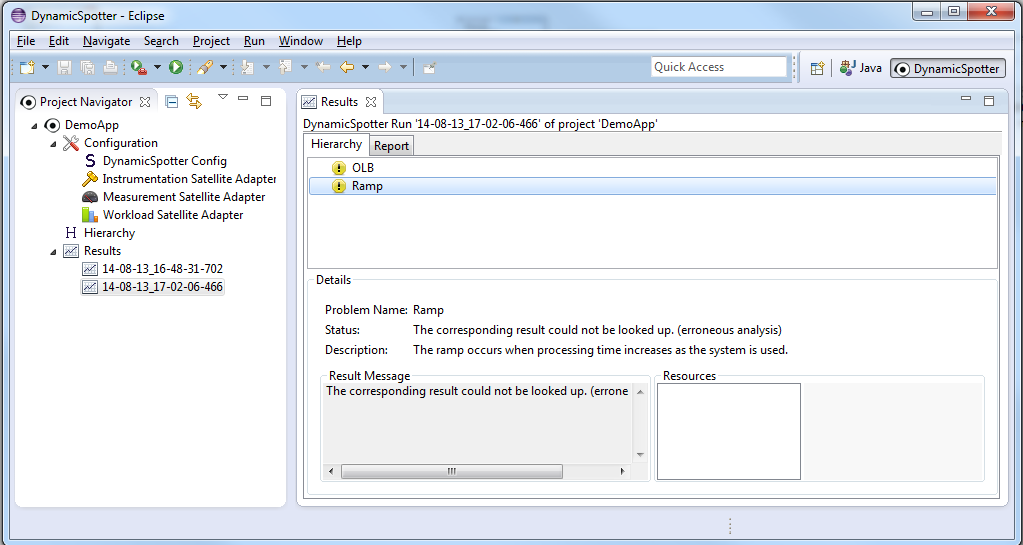
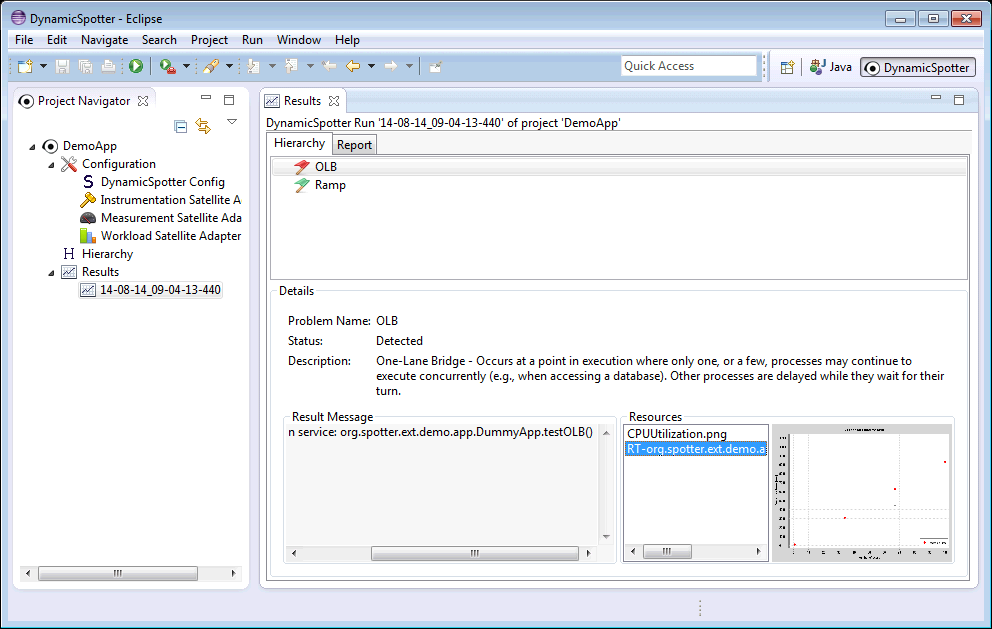
Wrote hierarchy editing section.

Changed region(s): [[0.0, 0.0, 1.0, 1.0]]

diff --git a/doc.tex b/doc.tex
@@ -130,9 +130,15 @@ SAP AG\\
 % 
 % \maketitle
 \tableofcontents
+
+%%%%%%%%%%%%%%%%%%%%%%%%%%%%%%%%%%%%%%%
+%%%%%%%%%%%%%%%%%%%%%%%%%%%%%%%%%%%%%%%
+%%%%%% 	
+%%%%%% 			APPROACH
+%%%%%% 	
+%%%%%%%%%%%%%%%%%%%%%%%%%%%%%%%%%%%%%%%
+%%%%%%%%%%%%%%%%%%%%%%%%%%%%%%%%%%%%%%%
 \newpage
-
-
 \section{The Approach behind \DS}
 \label{sec:approach}
 \DS is a framework for automatic detection of performance problems in Java-based enterprise software systems. Therefore,
@@ -230,15 +236,16 @@ problem exists in the SUT and, where appropriate, points to the root cause and l
 problem.
 
 
-
+%%%%%%%%%%%%%%%%%%%%%%%%%%%%%%%%%%%%%%%
+%%%%%%%%%%%%%%%%%%%%%%%%%%%%%%%%%%%%%%%
+%%%%%% 	
+%%%%%% 		   ARCHITECTURE
+%%%%%% 	
+%%%%%%%%%%%%%%%%%%%%%%%%%%%%%%%%%%%%%%%
+%%%%%%%%%%%%%%%%%%%%%%%%%%%%%%%%%%%%%%%
+\newpage
 \section{Architecture of \DS}
 \label{sec:architecture}
-
-\begin{figure}[p]
-\includegraphics[width=\textwidth]{figures/architecture.pdf}
-\caption{\DS architecture}
-\label{fig:architecture}
-\end{figure}
 As described in Section~\ref{sec:approach}, \DS is a framework for automatic detection of performance problems. The
 architecture of \DS is depicted in Figure~\ref{fig:architecture}. The main component of \DS (\texttt{\DS Core}) realizes
 the logic for automating performance tests and data analysis. In particular, \texttt{\DS Core} is responsible for
@@ -290,7 +297,22 @@ extensions and establishes connections to the corresponding external instrumenta
 tools. \DS is then able to automatically run performance tests and analyze measurement data as defined in the heuristics
 of the individual performance problems from the performance problem hierarchy. As a result, \DS provides a report to the
 user stating which performance problems have been detected.  
+\begin{figure}[h]
+\centering
+\includegraphics[width=0.87\textwidth]{figures/architecture.pdf}
+\caption{\DS architecture}
+\label{fig:architecture}
+\end{figure}
 
+
+%%%%%%%%%%%%%%%%%%%%%%%%%%%%%%%%%%%%%%%
+%%%%%%%%%%%%%%%%%%%%%%%%%%%%%%%%%%%%%%%
+%%%%%% 	
+%%%%%% 		 GETTING STARTED
+%%%%%% 	
+%%%%%%%%%%%%%%%%%%%%%%%%%%%%%%%%%%%%%%%
+%%%%%%%%%%%%%%%%%%%%%%%%%%%%%%%%%%%%%%%
+\newpage
 \section{DynamicSpotter - Getting Started}
 In this section, we demonstrate the usage of \DS on a very simple scenario. Some of the \DS plugins we use in this
 scenario are just simple examples (e.g. the plugin for load generation) to demonstrate the \DS framework. In real
@@ -476,17 +498,7 @@ In the project wizard, a name for the project and the configuration of the conne
 \caption{Creating \DS Project}
 \label{fig:createProject}
 \end{figure}
-The newly created project should now occur in the Project Navigator with a project structure as shown in
-Figure~\ref{fig:projectStructure}. 
-A \DS Project has two main nodes: a \texttt{Configuration} part and a \texttt{Results} part. In the
-\texttt{Configuration} part, one has to specify the scenario-specific properties as well as domain specific
-configuration parameters for \DS. The \texttt{\DS Config} contains global configurations and domain specific information
-required for the execution of \DS on the specific system under test. The \texttt{Satellite Adapter} configurations allow
-to specify the measurement environment of the scenario including configuration of instrumentation, measurement and
-workload adapters.
-
-The \texttt{Results} part provides a history of results for \DS diagnosis runs
-executed for that \DS Project.
+The new project should appear in the Project Navigator (cf. Figure~\ref{fig:projectStructure}). 
 
 \begin{figure}[h]
 \centering
@@ -494,6 +506,17 @@ executed for that \DS Project.
 \caption{Project Structure}
 \label{fig:projectStructure}
 \end{figure}
+
+A \DS Project has two main nodes: a \texttt{Configuration} part and a \texttt{Results} part. In the
+\texttt{Configuration} part, one has to specify the scenario-specific properties as well as domain specific
+configuration parameters for \DS. The \texttt{\DS Config} contains global configurations and domain specific information
+required for the execution of \DS on the specific system under test. The \texttt{Satellite Adapter} configurations allow
+to specify the measurement environment of the scenario including configuration of instrumentation, measurement and
+workload adapters.
+The \texttt{Results} part provides a history of results for \DS diagnosis runs
+executed for that \DS Project.
+
+
 
 In the following, we explain how to configure \DS for our demo scenario. First, we edit the \texttt{\DS Config} by
 opening (double-click on \texttt{\DS Config} in the Project Navigator) the \texttt{\DS Config Editor} (cf.
@@ -534,6 +557,12 @@ Satellite Adapters}. There, we add an instrumentation adapter of type
 \caption{\DS Instrumentation Satellite Adapter Editor}
 \label{fig:instrumentationEditor}
 \end{figure}
+\begin{figure}[h]
+\centering
+\includegraphics[width=0.8\textwidth]{figures/demo/0012-workloadConfig.png}
+\caption{Configuration of the Workload Adapter}
+\label{fig:workloadConfig}
+\end{figure}
 We then see a instrumentation adapter entry in the list with a red cross (cf. Figure~\ref{fig:instrumentationEditor}).
 The red cross means that no connection to the satellite could be established. As mentioned in Section~\ref{sec:demoApp}, the instrumentation agent starts per default
 its REST service on port \texttt{8888}. Thus, we need to change the port in the properties view of the
@@ -544,7 +573,7 @@ Analogously to the configuration of the instrumentation adapter we have to creat
 \texttt{measurement.satellite.adapter.instrumentation} in order to connect to the measurement interface of the
 instrumentation agent. 
 
-Finally, we have to configure a workload adapter. Therefore, we open the \texttt{Workload Satellite Adapter Editor} and
+Next, we have to configure a workload adapter. Therefore, we open the \texttt{Workload Satellite Adapter Editor} and
 add a satellite of the type \texttt{workload.satellite.adapter.customized} (cf. Figure~\ref{fig:workloadConfig}). This
 type of workload adapter is a simple load generator which runs within the \DS process. Therefore, this adapter does not have properties like host or port and
 is per default connected to \DS (green check mark). The customized workload adapter uses a Java class extending the
@@ -553,12 +582,28 @@ specify the full qualified class name of that load script class (\texttt{workloa
 path (\texttt{workload.simple.userScriptPath}) to the directory containing the Java package structure (the
 \texttt{loadScript} directory of the all-in-one-drop archive).
 
-\begin{figure}[h]
+Finally, we have to tell \DS which performance anti-patterns should be analyzed in the target application. Configuring
+the performance problem hierarchy is a task for performance experts. Therefore, we first have to activate the expert
+view by selecting \texttt{Enable Expert View} in the context menu of our \DS Project (cf.
+Figure~\ref{fig:contextMenu2}). 
+\begin{figure}[h!]
 \centering
-\includegraphics[width=0.8\textwidth]{figures/demo/0012-workloadConfig.png}
-\caption{Configuration of the Workload Adapter}
-\label{fig:workloadConfig}
+\subfigure[Enabling Expert View
+\label{fig:contextMenu2}]{
+	\includegraphics[width=0.28\textwidth]{figures/demo/0015-expertView.png}
+}
+\subfigure[Hierarchy Editor
+\label{fig:hierarchyEditor}]{
+	\includegraphics[width=0.68\textwidth]{figures/demo/0016-hierarchy.png}
+}
+\caption{Editing the Performance Problem Hierarchy}
+\label{fig:editingHierarchy}
 \end{figure}
+Now, an additional node called \texttt{Hierarchy} should appear in the project navigator. 
+Double click on that node to edit the performance
+problem hierarchy. For sake of simplicity, in our demo scenario we consider only two performance anti-patterns to be
+analyzed: the One Lane Bridge (OLB) and the Ramp anti-pattern. Add (flat, not appending) both anti-patterns to the
+hierarchy and save the changes (cf. Figure~\ref{fig:hierarchyEditor}).
 
 Having configured the global properties and specified the measurement environment, our \DS Project is ready to be
 executed. Therefore select the \texttt{DemoApp} project in the \DS Project Navigator and click on the \texttt{Run}
@@ -567,17 +612,25 @@ In general, depending on the complexity of the scenario the execution of \DS may
 scenario may take up to 30 minutes. 
 
 \subsubsection{Analyzing \DS Results}
-The results of a run are stored in the project's \texttt{results} folder. For each run a separate folder is created. Inside this folder all relevant data of the run are stored, e.g. also additional resources that were generated.
-Each of these folders are represented as a sub-node under the \emph{Results} node in the \DS project navigator. If the \emph{Results View} has not been opened yet, it can be opened via \texttt{Window \(\rightarrow\) Show View \(\rightarrow\) Other...} under the category \emph{\DS} (cf. Figure~\ref{fig:openResultsView}), or simply by doubleclicking on any of the results sub-nodes.
-
-\begin{figure}[h]
-\centering
-\includegraphics[width=0.4\textwidth]{figures/demo/0014-results-1.png}
+The results of a run are stored in the project's \texttt{results} folder. For each run a separate folder is created.
+Inside this folder all relevant data of the run are stored, e.g. also additional resources that were generated.
+Each of these folders are represented as a sub-node under the \emph{Results} node in the \DS project navigator. 
+\begin{figure}[h!] \centering \includegraphics[width=0.33\textwidth]{figures/demo/0014-results-1.png}
 \caption{Show Results View}
 \label{fig:openResultsView}
 \end{figure}
+\begin{figure}[h!] \centering \includegraphics[width=0.9\textwidth]{figures/demo/0014-results-2.png}
+\caption{Results View}
+\label{fig:resultsView}
+\end{figure}
 
-The \emph{Results View} displays the content corresponding to the selected run node in the navigator (cf. Figure~\ref{fig:resultsView}).
+If the
+\emph{Results View} has not been opened yet, it can be opened via \texttt{Window \(\rightarrow\) Show View
+\(\rightarrow\) Other...} under the category \emph{\DS} (cf. Figure~\ref{fig:openResultsView}), or simply by
+double-clicking on any of the results sub-nodes.
+
+The \emph{Results View} displays the content corresponding to the selected run node in the navigator (cf.
+Figure~\ref{fig:resultsView}).
 The view contains two tabs, one showing the hierarchy and one showing the report text.
 In the upper part of the hierarchy tab there is the hierarchy tree that was used during the diagnosis.
 Each detected problem is marked with a red flag. Problems that have not been detected are marked with a green flag.
@@ -586,12 +639,10 @@ An exclamation mark signals that there has been an error during the diagnosis of
 In the lower part the details of the currently selected problem including its related resources are shown.
 If resources are available, clicking on one of the items in the list will show a little preview next to it which can be enlarged by clicking on the preview image.
 
-\begin{figure}[h]
-\centering
-\includegraphics[width=0.95\textwidth]{figures/demo/0014-results-2.png}
-\caption{Results View}
-\label{fig:resultsView}
-\end{figure}
+In our demo example, the Ramp anti-pattern has not been detected, however, \DS detected a One Lane Bridge (OLB) in
+method \texttt{org.spotter.ext.demo.app.DummyApp.testOLB()} (cf. Figure~\ref{fig:resultsView}). The additional resources
+(graphs) show that the response times grow steadily with the load while the CPU utilization does not increase
+significantly.
 
 
 \subsection{Executing \DS from Command Line}
@@ -611,7 +662,14 @@ Thereby, the \texttt{<PATH\_TO\_SPOTTER\_CONF>} points to the \DS configuration 
 result directory.
 
 
-
+%%%%%%%%%%%%%%%%%%%%%%%%%%%%%%%%%%%%%%%
+%%%%%%%%%%%%%%%%%%%%%%%%%%%%%%%%%%%%%%%
+%%%%%% 	
+%%%%%%    BUILDING DYNAMIC SPOTTER
+%%%%%% 	
+%%%%%%%%%%%%%%%%%%%%%%%%%%%%%%%%%%%%%%%
+%%%%%%%%%%%%%%%%%%%%%%%%%%%%%%%%%%%%%%%
+\newpage
 \section{Building \DS}
 \label{sec:buildingDynamicSpotter}
 In order to build the \DS framework, the following tools need to be installed:
@@ -669,6 +727,15 @@ directory.
 
 The Eclipse Plugin JAR is located in the \texttt{org.spotter.eclipse.ui/target} directory.
 
+
+%%%%%%%%%%%%%%%%%%%%%%%%%%%%%%%%%%%%%%%
+%%%%%%%%%%%%%%%%%%%%%%%%%%%%%%%%%%%%%%%
+%%%%%% 	
+%%%%%%       WRITING EXTENSIONS
+%%%%%% 	
+%%%%%%%%%%%%%%%%%%%%%%%%%%%%%%%%%%%%%%%
+%%%%%%%%%%%%%%%%%%%%%%%%%%%%%%%%%%%%%%%
+\newpage
 \section{Writing Extensions for \DS}
 \label{sec:extensions}
 As mentioned in Section~\ref{sec:architecture}, \DS provides four different types of extensions which are required to
@@ -830,6 +897,14 @@ corresponding analyzed performance problem has been detected or not.
 Finally, the \texttt{getNumOfExperiments} method is used by \DS to estimate the duration of the experiments. In this
 method, the developer of a detection heuristic has to provide the number of experiments executed for that heuristic.
 
+%%%%%%%%%%%%%%%%%%%%%%%%%%%%%%%%%%%%%%%
+%%%%%%%%%%%%%%%%%%%%%%%%%%%%%%%%%%%%%%%
+%%%%%% 	
+%%%%%%       USEFUL LINKS
+%%%%%% 	
+%%%%%%%%%%%%%%%%%%%%%%%%%%%%%%%%%%%%%%%
+%%%%%%%%%%%%%%%%%%%%%%%%%%%%%%%%%%%%%%%
+\newpage
 \section{Useful Links}
 \label{sec:links}
 \begin{table}[h]
@@ -861,10 +936,10 @@ v1\_0/demo-all-in-one.zip}}}
 \newline
 \small{\textcolor[rgb]{0.0,0.0,1.0}{\href{http://i43vm-saas.ipd.uka.de:8082/DS/v1\_0/demo-all-in-one.zip}{http://i43vm-saas.ipd.uka.de:8082/DS/
 v1\_0/demo-all-in-one.tar.gz}}}
-& All-in-One Drop containing the demo example\DS\\
+& All-in-One Drop containing the demo example for \DS\\
 \midrule
 \small{\textcolor[rgb]{0.0,0.0,1.0}{\href{http://i43vm-saas.ipd.uka.de:8082/DS/v1\_0/javadoc/index.html}{http://i43vm-saas.ipd.uka.de:8082/DS/v1\_0/
-javadoc/index.html}}} & JavaDoc for the \DS framework\\
+javadoc/index.html}}} & JavaDoc for the \DS framework version 1.0\\
 \midrule
 \multicolumn{2}{c}{\mbox{\textbf{Build Infrastructure}}}\\
 \midrule
